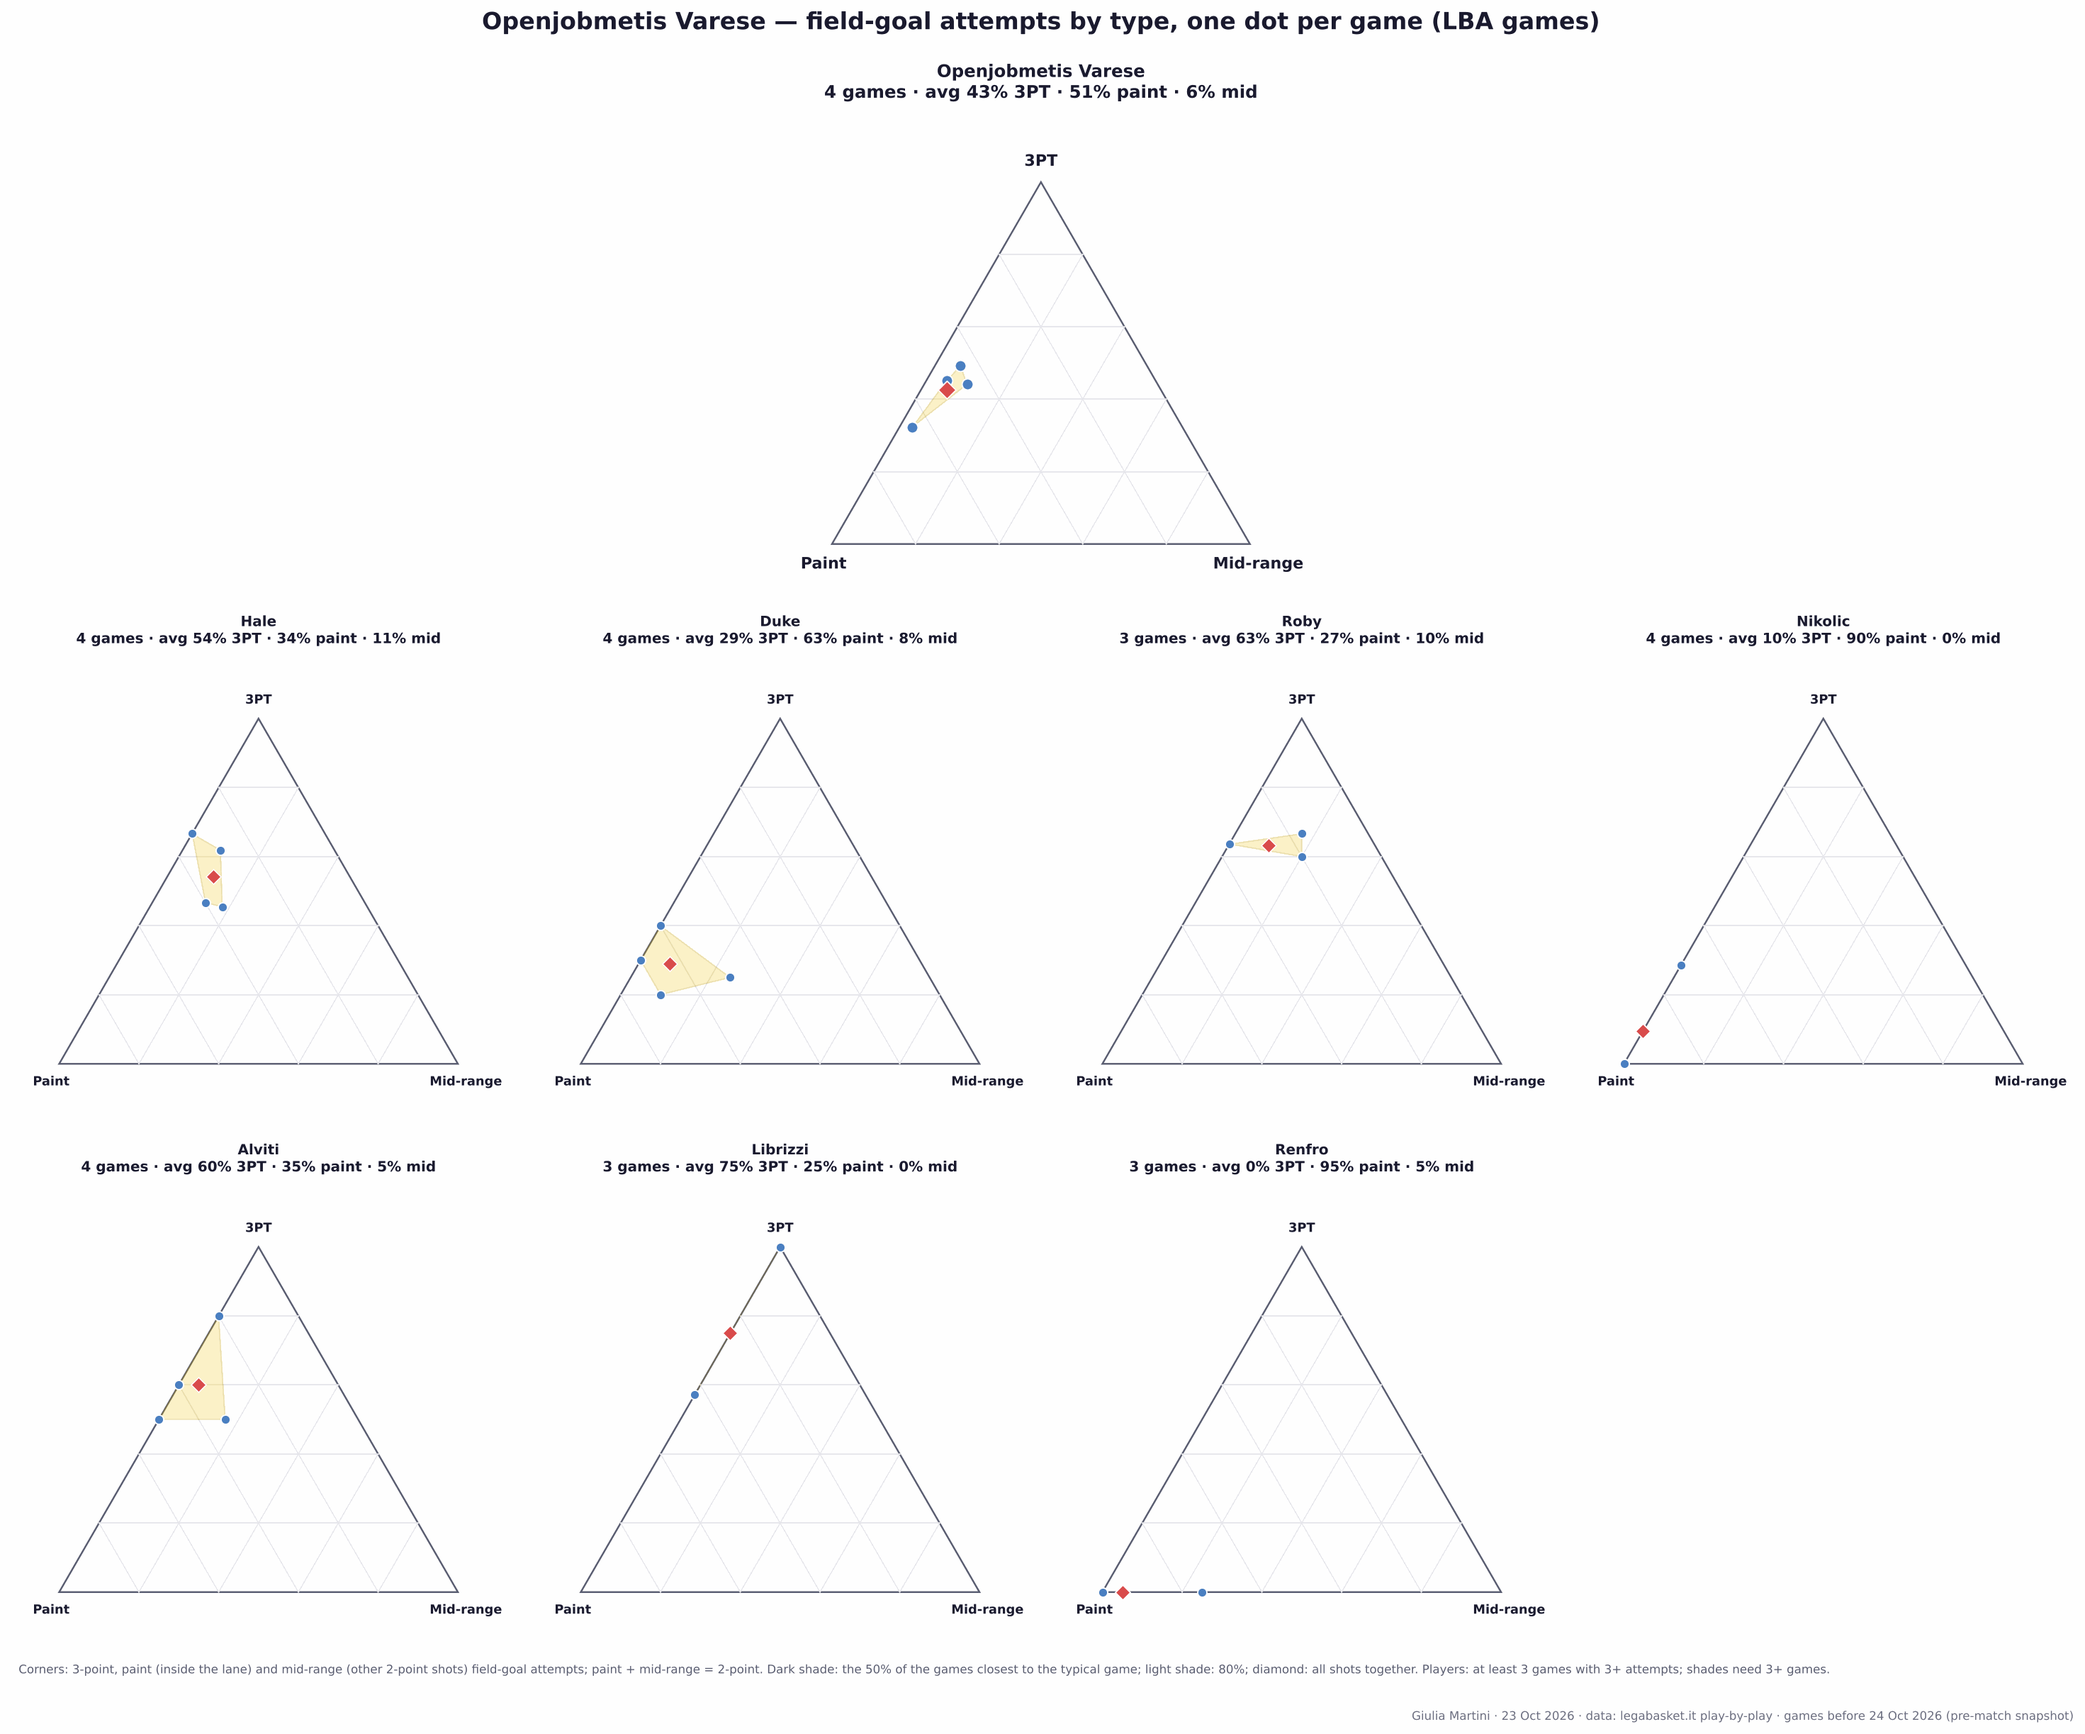
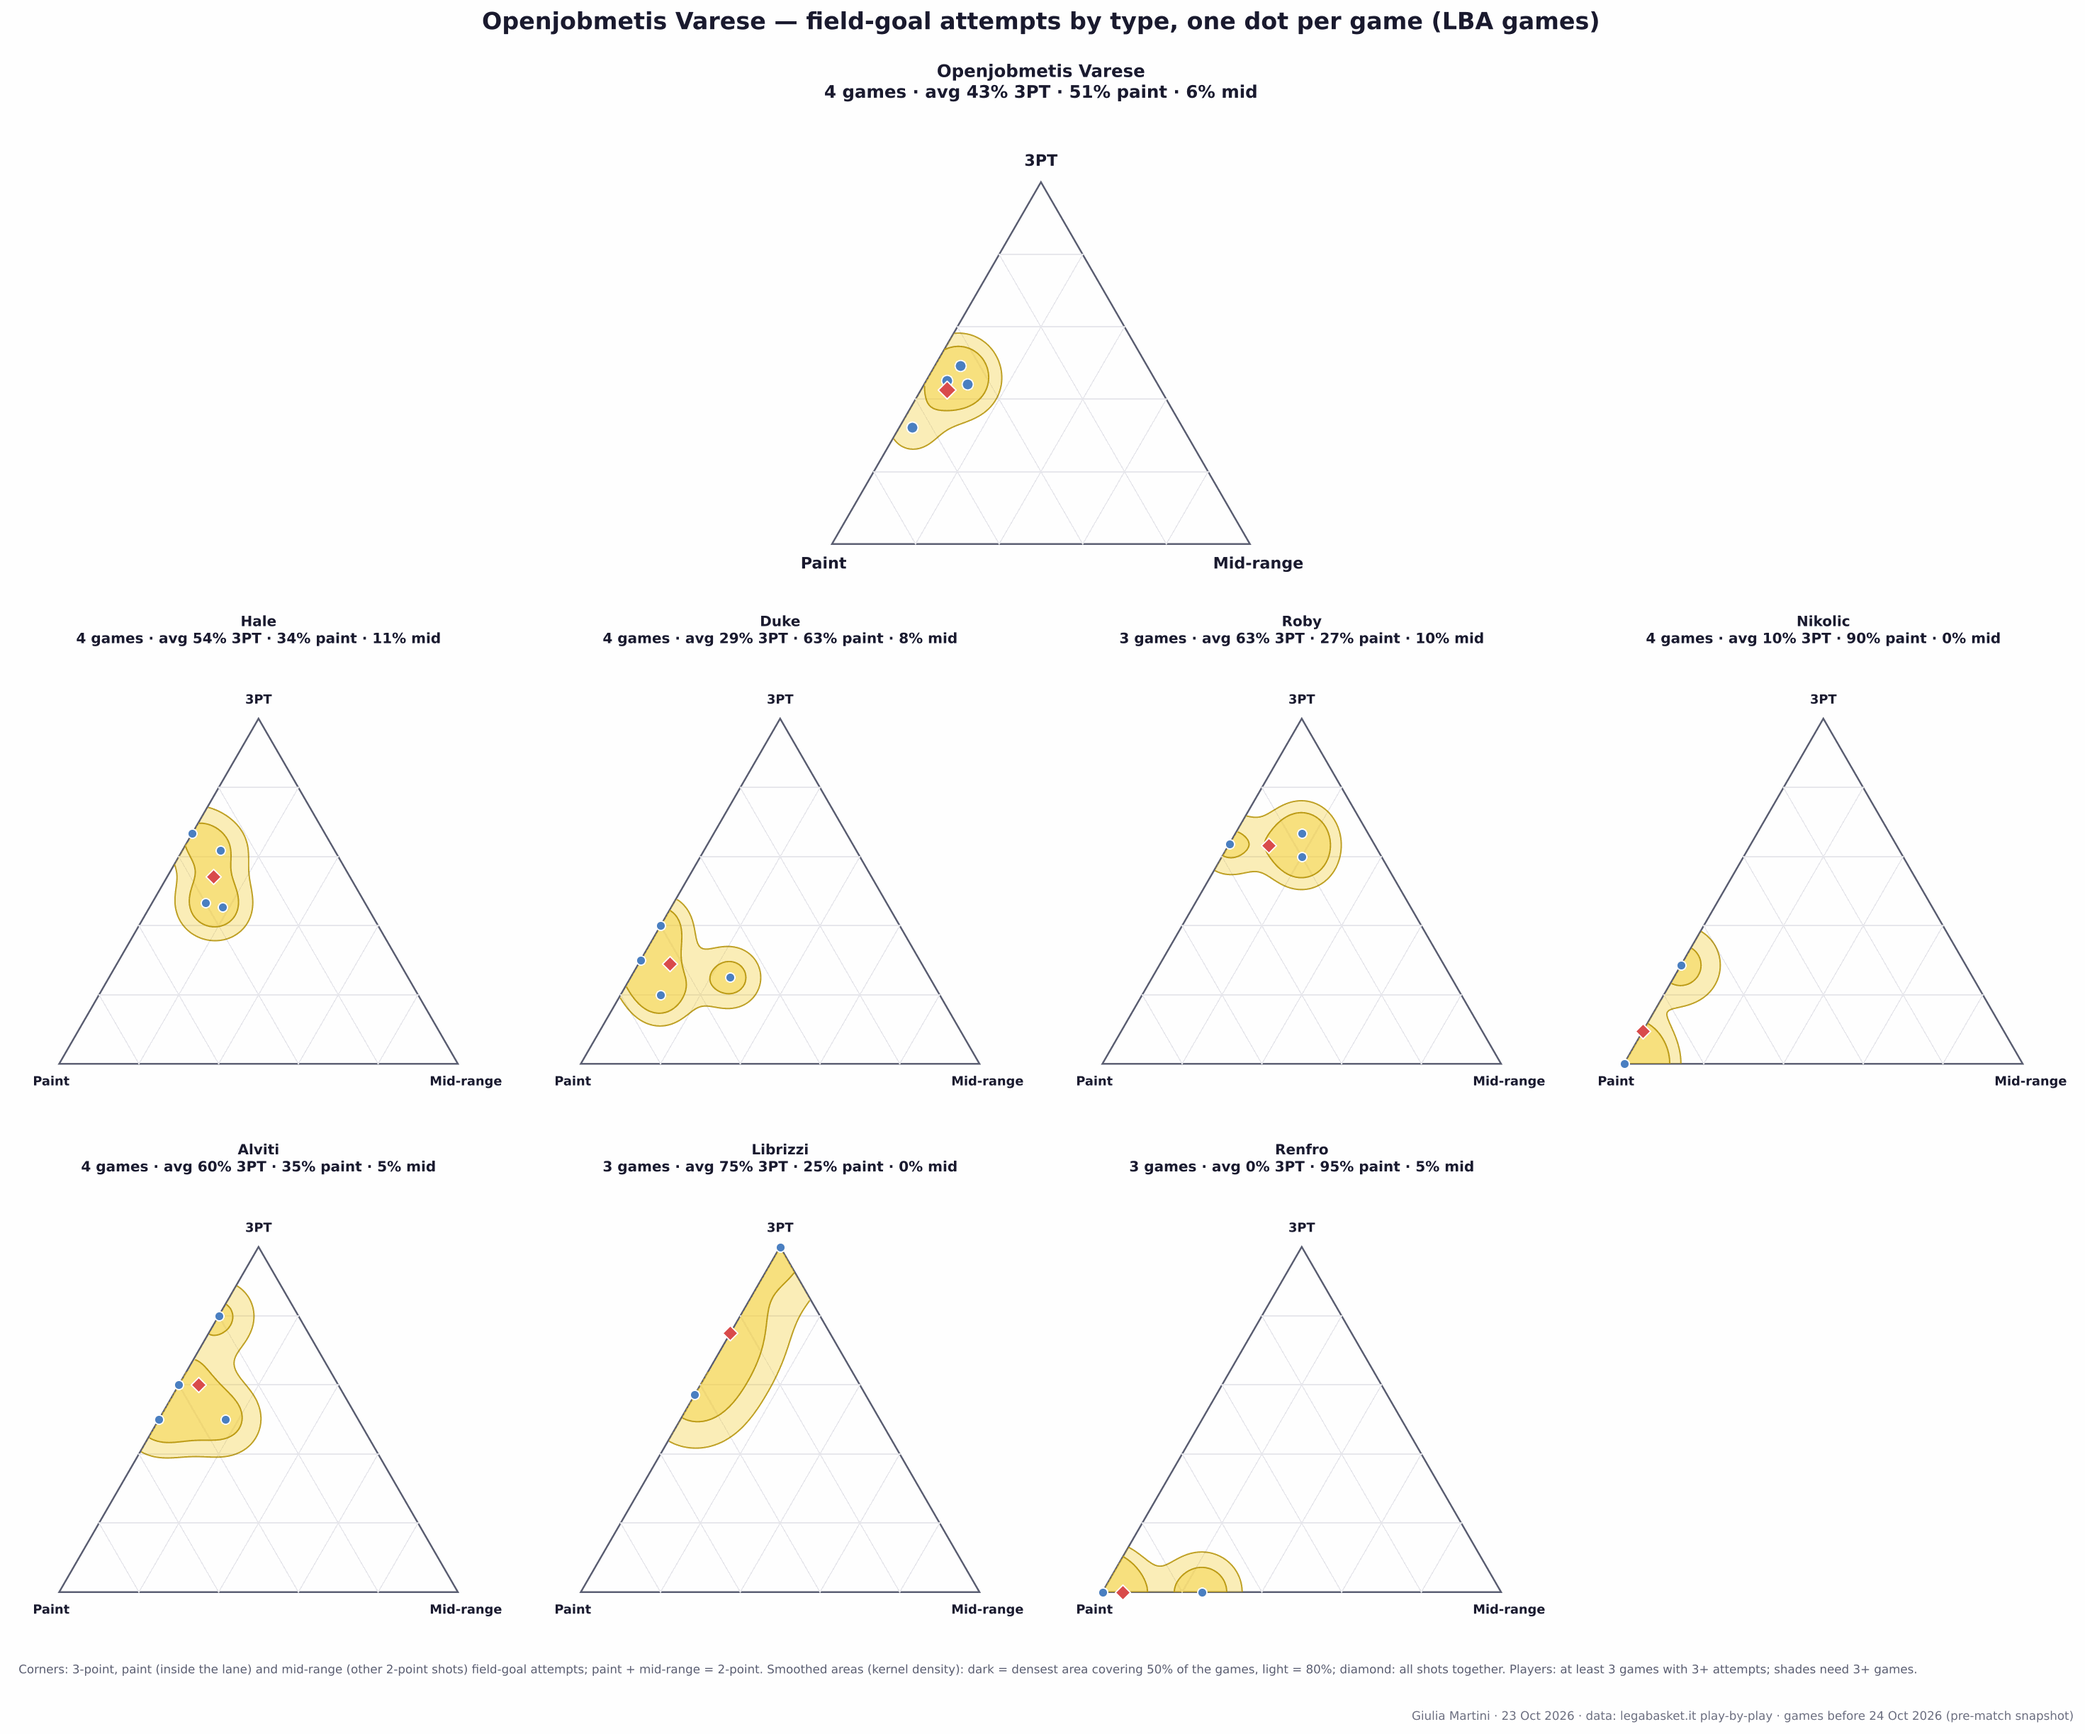
Triangle plots: smoothed density areas (50% / 80% of games) instead of polygons
Claude-Session: https://claude.ai/code/session_01PPeDWmJHzcUSDUMYwTxHkL

diff --git a/notebooks/tendency_triangles.py b/notebooks/tendency_triangles.py
@@ -83,29 +83,25 @@ def to_xy(shares: np.ndarray) -> np.ndarray:
     return shares[:, [0]] * top + shares[:, [1]] * left + shares[:, [2]] * right
 
 
-def convex_hull(points: np.ndarray) -> np.ndarray:
-    """Corners of the convex hull of 2-D points (Andrew's monotone chain), counter-clockwise; fewer than 3 corners = no area."""
-    pts = sorted({(round(float(x), 9), round(float(y), 9)) for x, y in points})
-    if len(pts) < 3:
-        return np.array(pts)
-
-    def half(seq):
-        h = []
-        for p in seq:
-            while len(h) >= 2 and (h[-1][0] - h[-2][0]) * (p[1] - h[-2][1]) - (h[-1][1] - h[-2][1]) * (p[0] - h[-2][0]) <= 0:
-                h.pop()
-            h.append(p)
-        return h[:-1]
-    return np.array(half(pts) + half(pts[::-1]))
+GRID_N = 220                                                   # resolution of the density grid
+MIN_BANDWIDTH = 0.06                                           # smoothing never narrower than this (triangle side = 1)
+TRIANGLE = np.array(list(CORNERS.values()))
 
 
-def central_hull(xy: np.ndarray, frac: float) -> np.ndarray | None:
-    """Corners of the convex hull of the ceil(frac * n) games closest to the median game, or None if they do not span an area."""
-    centre = np.median(xy, axis=0)
-    k = math.ceil(frac * len(xy))
-    near = xy[np.argsort(np.hypot(*(xy - centre).T), kind="stable")[:k]]
-    hull = convex_hull(near)
-    return hull if len(hull) >= 3 else None
+def density_levels(xy: np.ndarray, fracs: tuple[float, ...]) -> tuple[np.ndarray, np.ndarray, np.ndarray, list[float]]:
+    """Gaussian kernel density of the games inside the triangle and, for each share in `fracs`, the density level whose area holds that
+    share of the games (highest-density regions). Returns (grid x, grid y, density with NaN outside the triangle, levels)."""
+    gx, gy = np.meshgrid(np.linspace(-0.02, 1.02, GRID_N), np.linspace(-0.02, 0.89, GRID_N))
+    top, left, right = TRIANGLE
+    inside = (gy >= -1e-9) & (gy <= top[1] * (1 - np.abs(gx - 0.5) * 2) + 1e-9)
+    h = max(MIN_BANDWIDTH, float(np.sqrt(xy.var(axis=0).mean())) * len(xy) ** (-1 / 6))        # Scott's rule, with a floor
+    dens = np.zeros_like(gx)
+    for x, y in xy:
+        dens += np.exp(-((gx - x) ** 2 + (gy - y) ** 2) / (2 * h * h))
+    dens = np.where(inside, dens, np.nan)
+    vals = np.sort(dens[inside])[::-1]
+    mass = np.cumsum(vals) / vals.sum()
+    return gx, gy, dens, [float(vals[min(np.searchsorted(mass, f), len(vals) - 1)]) for f in fracs]
 
 
 def draw_triangle(ax, sh: pd.DataFrame, avg: np.ndarray, title: str, small: bool = False) -> None:
@@ -121,10 +117,11 @@ def draw_triangle(ax, sh: pd.DataFrame, avg: np.ndarray, title: str, small: bool
     ax.text(left[0] - 0.02, left[1] - 0.03, "Paint", ha="center", va="top", fontsize=fs, fontweight="bold", color=TEXT)
     ax.text(right[0] + 0.02, right[1] - 0.03, "Mid-range", ha="center", va="top", fontsize=fs, fontweight="bold", color=TEXT)
     xy = to_xy(sh[list(CORNERS)].to_numpy())
-    for frac, alpha in ((SHADE_OUTER, 0.22), (SHADE_INNER, 0.42)):
-        hull = central_hull(xy, frac)
-        if hull is not None:
-            ax.add_patch(Polygon(hull, closed=True, facecolor=GOLD, edgecolor=GOLD_EDGE, alpha=alpha, lw=0.8, zorder=3))
+    if len(xy) >= 3:
+        gx, gy, dens, (lo, hi) = density_levels(xy, (SHADE_OUTER, SHADE_INNER))
+        for level, upper, alpha in ((lo, hi, 0.28), (hi, np.inf, 0.5)):               # light: inside the 80% area, dark: inside the 50% area
+            cs = ax.contourf(gx, gy, dens, levels=[level, upper if np.isfinite(upper) else np.nanmax(dens) * 1.01], colors=[GOLD], alpha=alpha, zorder=3)
+            ax.contour(gx, gy, dens, levels=[level], colors=[GOLD_EDGE], linewidths=0.9, alpha=0.8, zorder=3)
     ax.scatter(xy[:, 0], xy[:, 1], s=34 if small else 50, color=BLUE, edgecolor="white", linewidth=0.8, zorder=5)
     ax.scatter(*to_xy(avg[None, :])[0], marker="D", s=46 if small else 64, color=RED, edgecolor="white", linewidth=0.8, zorder=6)
     ax.set_title(title, fontsize=9 if small else 11, fontweight="bold", color=TEXT, pad=14 if small else 18)
@@ -161,7 +158,7 @@ def fig_triangles(s: pd.DataFrame, team: str, what: str, comp_name: str, out: Pa
     what_txt = "made field goals" if what == "made" else "field-goal attempts"
     fig.suptitle(f"{team} — {what_txt} by type, one dot per game ({comp_name} games)", **SUP_KW)
     note = (f"Corners: 3-point, paint (inside the lane) and mid-range (other 2-point shots) {what_txt}; paint + mid-range = 2-point. "
-            f"Dark shade: the {SHADE_INNER:.0%} of the games closest to the typical game; light shade: {SHADE_OUTER:.0%}; diamond: all shots together. "
+            f"Smoothed areas (kernel density): dark = densest area covering {SHADE_INNER:.0%} of the games, light = {SHADE_OUTER:.0%}; diamond: all shots together. "
             f"Players: at least {MIN_GAMES} games with {MIN_SHOTS[what]}+ {'made shots' if what == 'made' else 'attempts'}; shades need 3+ games.")
     fig.text(0.01, 0.0, note, fontsize=7.5, color=TEXT2, ha="left", va="top", wrap=True)
     path = out / f"{prefix}{what}.png"
